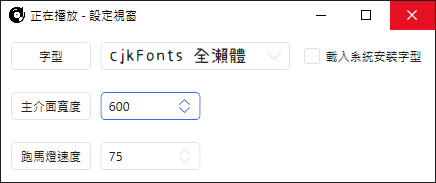
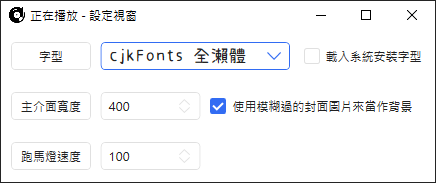
feat: 新增使用封面圖來當作背景的功能

diff --git a/OBSNowPlayingOverlay/SettingWindow.xaml b/OBSNowPlayingOverlay/SettingWindow.xaml
@@ -6,7 +6,7 @@
         xmlns:local="clr-namespace:OBSNowPlayingOverlay"
         xmlns:hc="https://handyorg.github.io/handycontrol" x:Class="OBSNowPlayingOverlay.SettingWindow"
         mc:Ignorable="d"
-        Title="正在播放 - 設定視窗" Height="190" Width="450" Closing="Window_Closing" MinHeight="160" MinWidth="450">
+        Title="正在播放 - 設定視窗" Height="190" Width="450" Closing="Window_Closing" MinHeight="160" MinWidth="450" WindowStartupLocation="CenterScreen">
     <Grid>
         <Grid.RowDefinitions>
             <RowDefinition Height="50"/>
@@ -39,8 +39,9 @@
 
         <Label Content="主介面寬度" HorizontalAlignment="Stretch" Margin="10,0,10,0" Grid.Row="1" Padding="0,5,0,5"/>
         <hc:NumericUpDown x:Name="num_MainWindowWidth" Grid.Column="1" Grid.Row="1" VerticalAlignment="Center" Maximum="1000" Minimum="400" Value="400" Grid.ColumnSpan="1" ValueChanged="num_MainWindowWidth_ValueChanged" Increment="25"/>
+        <CheckBox x:Name="chkb_UseCoverImageAsBackground" Grid.Column="2" Content="使用模糊過的封面圖片來當作背景" Margin="10,0,10,0" Grid.Row="1" Grid.ColumnSpan="2" Click="chkb_UseCoverImageAsBackground_Click" ToolTip="若未勾則會使用封面圖的主顏色來當背景。需要等歌曲變換後才會生效" Cursor="Help"/>
 
         <Label Content="跑馬燈速度" HorizontalAlignment="Stretch" Margin="10,0,10,0" Grid.Row="2" Padding="0,5,0,5" Grid.Column="0"/>
-        <hc:NumericUpDown x:Name="num_MarqueeSpeed" Grid.Column="1" Grid.Row="2" VerticalAlignment="Center" Maximum="200" Minimum="25" Value="50" Grid.ColumnSpan="1" ValueChanged="num_MarqueeSpeed_ValueChanged" Increment="5"/>
+        <hc:NumericUpDown x:Name="num_MarqueeSpeed" Grid.Column="1" Grid.Row="2" VerticalAlignment="Center" Maximum="200" Minimum="25" Value="50" Grid.ColumnSpan="1" ValueChanged="num_MarqueeSpeed_ValueChanged" Increment="5"/>        
     </Grid>
 </Window>

diff --git a/OBSNowPlayingOverlay/MainWindow.xaml b/OBSNowPlayingOverlay/MainWindow.xaml
@@ -6,7 +6,10 @@
         xmlns:local="clr-namespace:OBSNowPlayingOverlay"
         xmlns:hc="https://handyorg.github.io/handycontrol"
         mc:Ignorable="d"
-        Title="正在播放 - 主視窗" Height="120" Width="400" Icon="/Assets/icon.png" Closing="Window_Closing" AllowsTransparency="True" WindowStyle="None" Background="{x:Null}">
+        Title="正在播放 - 主視窗" Height="120" Width="400" Icon="/Assets/icon.png" Closing="Window_Closing" AllowsTransparency="True" WindowStyle="None" MouseMove="Window_MouseMove" Background="{x:Null}" Left="150" Top="150">
+    <Window.Resources>
+        <local:RectConverter x:Key="RectConverter"/>
+    </Window.Resources>
     <Grid x:Name="grid" MouseMove="grid_MouseMove">
         <Grid.ColumnDefinitions>
             <ColumnDefinition Width="120"/>
@@ -27,9 +30,16 @@
             </Grid>
         </Border>
 
-        <Image x:Name="img_Cover" Width="120" Height="120" Source="/Assets/record-player.png" Stretch="UniformToFill">
+        <Image x:Name="img_Cover" Source="/Assets/record-player.png" Width="120" Height="120" Stretch="UniformToFill">
             <Image.Clip>
-                <RectangleGeometry RadiusX="8" RadiusY="8" Rect="0,0,120,120"/>
+                <RectangleGeometry RadiusX="8" RadiusY="8">
+                    <RectangleGeometry.Rect>
+                        <MultiBinding Converter="{StaticResource RectConverter}">
+                            <Binding ElementName="img_Cover" Path="ActualWidth"/>
+                            <Binding ElementName="img_Cover" Path="ActualHeight"/>
+                        </MultiBinding>
+                    </RectangleGeometry.Rect>
+                </RectangleGeometry>
             </Image.Clip>
         </Image>
         <Grid x:Name="grid_Pause" Visibility="Hidden">

diff --git a/OBSNowPlayingOverlay/MainWindow.xaml.cs b/OBSNowPlayingOverlay/MainWindow.xaml.cs
@@ -10,7 +10,9 @@ using System.Windows.Input;
 using System.Windows.Media;
 using System.Windows.Media.Imaging;
 using Color = System.Windows.Media.Color;
+using FontFamily = System.Windows.Media.FontFamily;
 using Image = SixLabors.ImageSharp.Image;
+using ImageBrush = System.Windows.Media.ImageBrush;
 using Rectangle = SixLabors.ImageSharp.Rectangle;
 
 namespace OBSNowPlayingOverlay
@@ -24,6 +26,7 @@ namespace OBSNowPlayingOverlay
 
         private readonly HttpClient _httpClient;
         private string latestTitle = "";
+        private bool isUseCoverImageAsBackground = false;
 
         public MainWindow()
         {
@@ -74,6 +77,14 @@ namespace OBSNowPlayingOverlay
             }
         }
 
+        private void Window_MouseMove(object sender, MouseEventArgs e)
+        {
+            if (e.LeftButton == MouseButtonState.Pressed)
+            {
+                DragMove();
+            }
+        }
+
         public async Task UpdateNowPlayingDataAsync(NowPlayingJson nowPlayingJson)
         {
             if (latestTitle != nowPlayingJson.Title)
@@ -82,53 +93,74 @@ namespace OBSNowPlayingOverlay
                 AnsiConsole.MarkupLineInterpolated($"歌曲切換: [green]{nowPlayingJson.Artists.FirstOrDefault() ?? "無"} - {nowPlayingJson.Title}[/]");
                 AnsiConsole.MarkupLineInterpolated($"歌曲連結: [green]{nowPlayingJson.SongLink}[/]");
 
+                rb_Title.Dispatcher.Invoke(() => { rb_Title.Content = nowPlayingJson.Title; });
+                rb_Subtitle.Dispatcher.Invoke(() => { rb_Subtitle.Content = nowPlayingJson.Artists.FirstOrDefault() ?? "無"; });
+
                 try
                 {
                     AnsiConsole.MarkupLineInterpolated($"開始下載封面: [green]{nowPlayingJson.Cover}[/]");
 
                     using var imageStream = await _httpClient.GetStreamAsync(nowPlayingJson.Cover);
                     using var image = await Image.LoadAsync<Rgba32>(imageStream);
+                    using var coverImage = image.Clone();
 
                     // 若圖片非正方形才進行裁切
-                    if (image.Width != image.Height)
+                    if (coverImage.Width != coverImage.Height)
                     {
                         // 將圖片從正中間裁切
                         // 若圖片的寬比較大，就由寬來裁切
-                        if (image.Width > image.Height)
+                        if (coverImage.Width > coverImage.Height)
                         {
-                            int x = image.Width / 2 - image.Height / 2;
-                            image.Mutate(i => i
-                                .Crop(new Rectangle(x, 0, image.Height, image.Height)));
+                            int x = coverImage.Width / 2 - coverImage.Height / 2;
+                            coverImage.Mutate(i => i
+                                .Crop(new Rectangle(x, 0, coverImage.Height, coverImage.Height)));
                         }
                         else
                         {
-                            int y = image.Height / 2 - image.Width / 2;
-                            image.Mutate(i => i
-                                .Crop(new Rectangle(0, y, image.Width, image.Width)));
+                            int y = coverImage.Height / 2 - coverImage.Width / 2;
+                            coverImage.Mutate(i => i
+                                .Crop(new Rectangle(0, y, coverImage.Width, coverImage.Width)));
                         }
                     }
 
-                    // 設定圖片
+                    // 設定封面圖片
                     img_Cover.Dispatcher.Invoke(() =>
                     {
-                        img_Cover.Source = GetBMP(image);
+                        img_Cover.Source = GetBMP(coverImage);
                     });
 
-                    // 取得圖片的主要顏色
-                    // https://gist.github.com/JimBobSquarePants/12e0ef5d904d03110febea196cf1d6ee
-                    image.Mutate(x => x
-                        // Scale the image down preserving the aspect ratio. This will speed up quantization.
-                        // We use nearest neighbor as it will be the fastest approach.
-                        .Resize(new ResizeOptions() { Sampler = KnownResamplers.NearestNeighbor, Size = new SixLabors.ImageSharp.Size(128, 0) })
-                        // Reduce the color palette to 1 color without dithering.
-                        .Quantize(new OctreeQuantizer(new QuantizerOptions { MaxColors = 1 })));
-
-                    // 設定背景顏色
-                    var color = image[0, 0];
-                    bg.Dispatcher.Invoke(() =>
+                    if (isUseCoverImageAsBackground)
                     {
-                        bg.Background = new SolidColorBrush(Color.FromArgb(color.A, color.R, color.G, color.B));
-                    });
+                        // 直接將圖片模糊化
+                        image.Mutate(x => x.GaussianBlur(12));
+
+                        bg.Dispatcher.Invoke(() =>
+                        {
+                            bg.Background = new ImageBrush()
+                            {
+                                ImageSource = GetBMP(image),
+                                Stretch = Stretch.UniformToFill
+                            };
+                        });
+                    }
+                    else
+                    {
+                        // 取得圖片的主要顏色
+                        // https://gist.github.com/JimBobSquarePants/12e0ef5d904d03110febea196cf1d6ee
+                        image.Mutate(x => x
+                            // Scale the image down preserving the aspect ratio. This will speed up quantization.
+                            // We use nearest neighbor as it will be the fastest approach.
+                            .Resize(new ResizeOptions() { Sampler = KnownResamplers.NearestNeighbor, Size = new SixLabors.ImageSharp.Size(128, 0) })
+                            // Reduce the color palette to 1 color without dithering.
+                            .Quantize(new OctreeQuantizer(new QuantizerOptions { MaxColors = 1 })));
+
+                        // 設定背景顏色
+                        var color = image[0, 0];
+                        bg.Dispatcher.Invoke(() =>
+                        {
+                            bg.Background = new SolidColorBrush(Color.FromArgb(color.A, color.R, color.G, color.B));
+                        });
+                    }
                 }
                 catch (Exception ex)
                 {
@@ -155,18 +187,22 @@ namespace OBSNowPlayingOverlay
                 }
             }
 
-            rb_Title.Dispatcher.Invoke(() => { rb_Title.Content = nowPlayingJson.Title; });
-            rb_Subtitle.Dispatcher.Invoke(() => { rb_Subtitle.Content = nowPlayingJson.Artists.FirstOrDefault() ?? "無"; });
-            pb_Process.Dispatcher.Invoke(() =>
+            if (double.IsNormal(nowPlayingJson.Progress) && double.IsNormal(nowPlayingJson.Duration))
             {
-                pb_Process.Foreground = new SolidColorBrush(progressColor);
-                pb_Process.Value = (nowPlayingJson.Progress / nowPlayingJson.Duration) * 100;
-            });
+                pb_Process.Dispatcher.Invoke(() =>
+                {
+                    pb_Process.Foreground = new SolidColorBrush(progressColor);
+                    pb_Process.Value = (nowPlayingJson.Progress / nowPlayingJson.Duration) * 100;
+                });
+            }
 
-            grid_Pause.Dispatcher.Invoke(() =>
+            if (!string.IsNullOrEmpty(nowPlayingJson.Status))
             {
-                grid_Pause.Visibility = nowPlayingJson.Status == "playing" ? Visibility.Hidden : Visibility.Visible;
-            });
+                grid_Pause.Dispatcher.Invoke(() =>
+                {
+                    grid_Pause.Visibility = nowPlayingJson.Status == "playing" ? Visibility.Hidden : Visibility.Visible;
+                });
+            }
         }
 
         internal void SetFont(FontFamily fontFamily)
@@ -198,6 +234,11 @@ namespace OBSNowPlayingOverlay
                 rb_Subtitle.Speed = speed;
                 rb_Subtitle.OnApplyTemplate();
             });
+        }
+
+        internal void SetUseCoverImageAsBackground(bool useCoverImage)
+        {
+            isUseCoverImageAsBackground = useCoverImage;
         }
 
         // https://github.com/SixLabors/ImageSharp/issues/531#issuecomment-2275170928

diff --git a/OBSNowPlayingOverlay/SettingWindow.xaml.cs b/OBSNowPlayingOverlay/SettingWindow.xaml.cs
@@ -104,7 +104,13 @@ namespace OBSNowPlayingOverlay
                 chkb_LoadSystemFonts.IsChecked = _config.IsLoadSystemFonts;
             });
 
+            chkb_UseCoverImageAsBackground.Dispatcher.Invoke(() =>
+            {
+                chkb_UseCoverImageAsBackground.IsChecked = _config.IsUseCoverImageAsBackground;
+            });
+
             ReloadFonts(_config.IsLoadSystemFonts);
+            _mainWindow.SetUseCoverImageAsBackground(_config.IsUseCoverImageAsBackground);
 
             cb_FontChooser.Dispatcher.Invoke(() =>
             {
@@ -228,6 +234,14 @@ namespace OBSNowPlayingOverlay
 
                 _mainWindow.SetMarqueeSpeed(speed);
             }
+        }
+
+        private void chkb_UseCoverImageAsBackground_Click(object sender, RoutedEventArgs e)
+        {
+            bool isUseCoverImageAsBackground = chkb_UseCoverImageAsBackground.IsChecked.HasValue && chkb_UseCoverImageAsBackground.IsChecked.Value;
+            _config.IsUseCoverImageAsBackground = isUseCoverImageAsBackground;
+
+            _mainWindow.SetUseCoverImageAsBackground(isUseCoverImageAsBackground);
         }
     }
 }

diff --git a/OBSNowPlayingOverlay/RectConverter.cs b/OBSNowPlayingOverlay/RectConverter.cs
@@ -1,0 +1,37 @@
+using System.Globalization;
+using System.Windows;
+using System.Windows.Data;
+
+namespace OBSNowPlayingOverlay
+{
+    public class RectConverter : IMultiValueConverter
+    {
+        public object Convert(object[] values, Type targetType, object parameter, CultureInfo culture)
+        {
+            if (values.Length == 2 &&
+                values[0] is double width &&
+                values[1] is double height)
+            {
+                return new Rect(0, 0, width, height);
+            }
+
+            return Rect.Empty;
+        }
+
+        public object[] ConvertBack(object value, Type[] targetTypes, object parameter, CultureInfo culture)
+        {
+            if (value is Rect rect)
+            {
+                var values = new object[2];
+                values[0] = rect.Width;
+                values[1] = rect.Height;
+
+                return values;
+            }
+            else
+            {
+                return Array.Empty<object>();
+            }
+        }
+    }
+}

diff --git a/OBSNowPlayingOverlay/Config.cs b/OBSNowPlayingOverlay/Config.cs
@@ -3,6 +3,7 @@
     public class Config
     {
         public bool IsLoadSystemFonts { get; set; } = false;
+        public bool IsUseCoverImageAsBackground { get; set; } = false;
         public int SeletedFontIndex { get; set; } = 1;
         public int MainWindowWidth { get; set; } = 400;
         public int MarqueeSpeed { get; set; } = 50;

diff --git a/README.md b/README.md
@@ -2,9 +2,18 @@
 
 ![MainWindows](Docs/MainWindow.png)
 
+![MainWindows2](Docs/MainWindow2.png)
+
 一個可以顯示 YouTube (包含 YouTube Music)、SoundCloud、Spotify 播放狀態的小工具
 
 起因是因為我推 ([998rrr](https://www.twitch.tv/998rrr)) 的 NowPlaying 軟體出現問題，正好拿來練手寫個工具看看
+
+# 特色
+
+- 顯示播放狀態
+- 緩慢新增的可自訂化介面
+- 自動更新 (v1.0.1 新增)
+- ~~還有些我抓不到的 Bug~~
 
 # 如何使用
 
